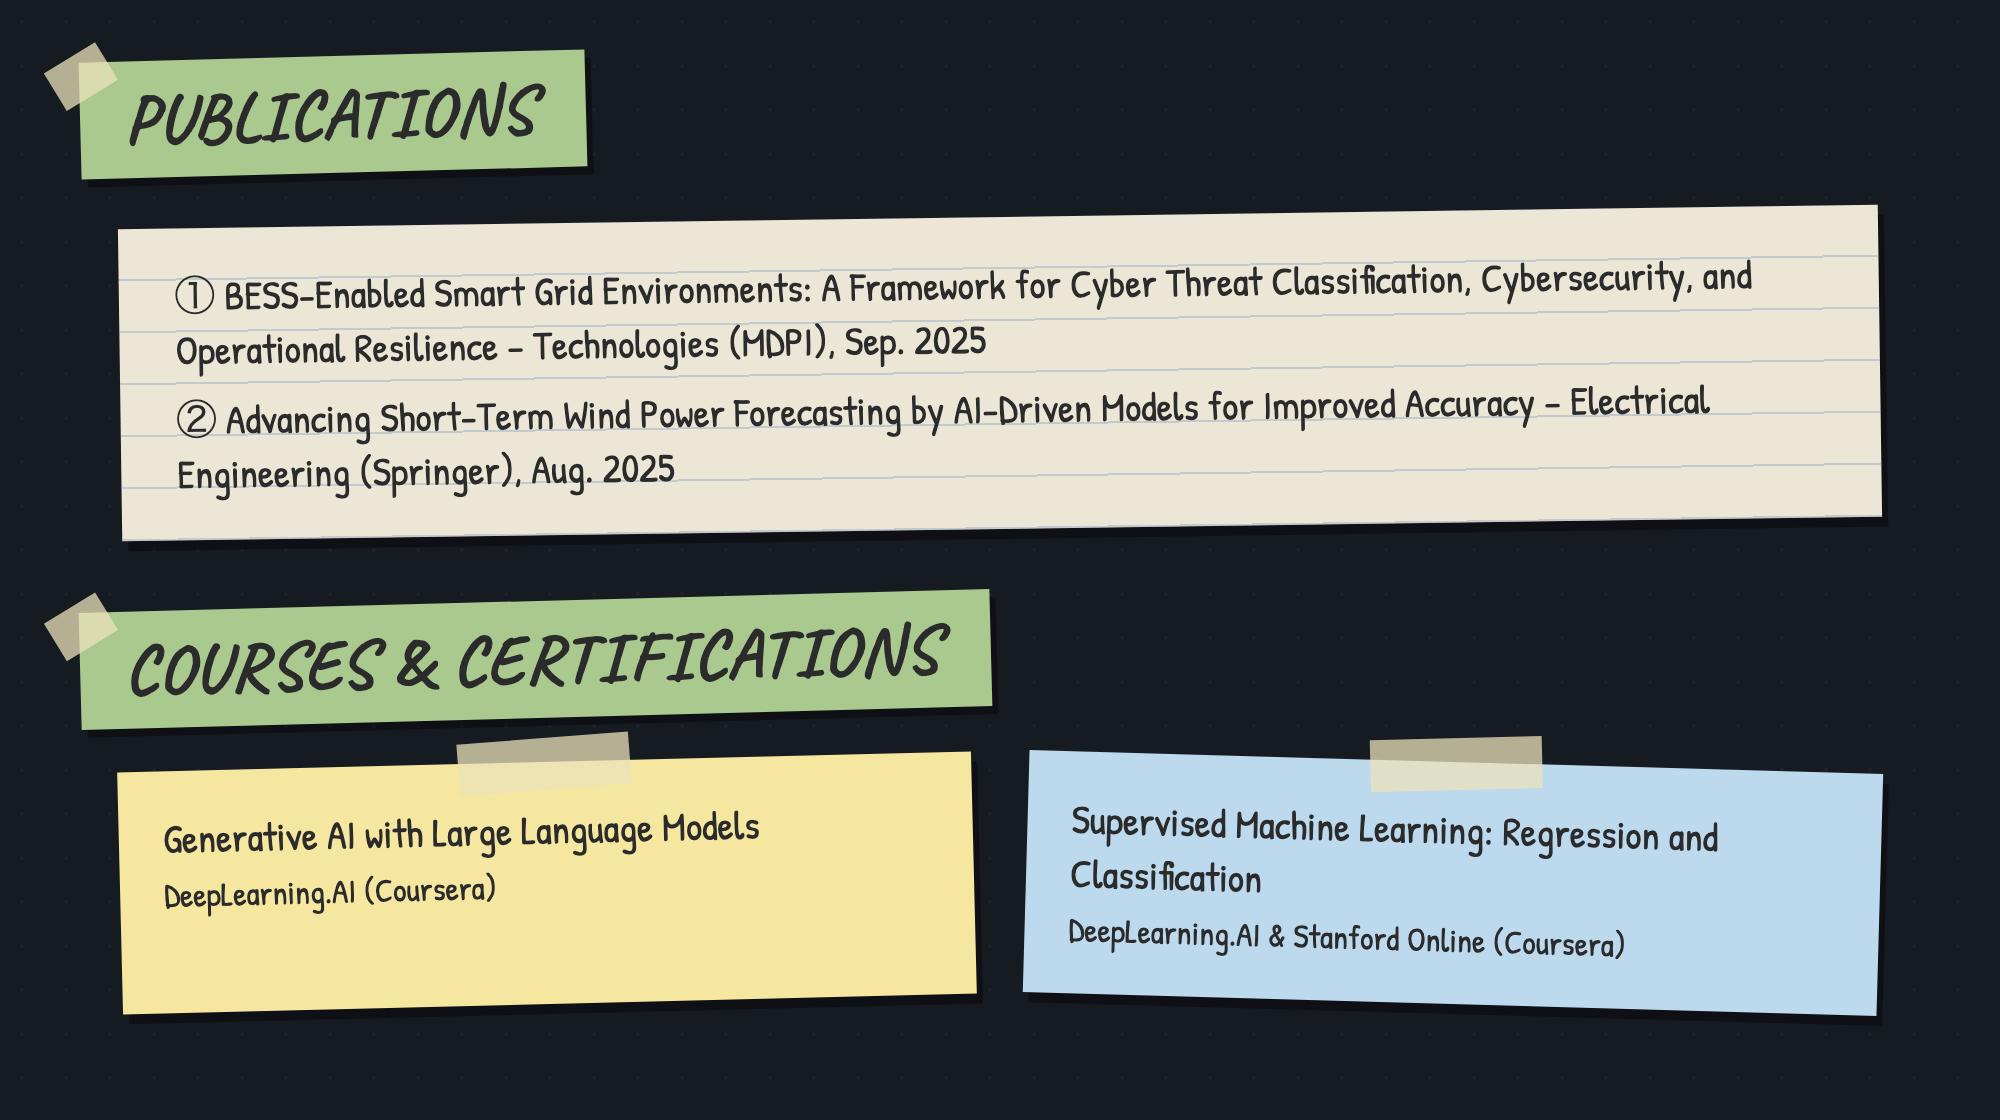
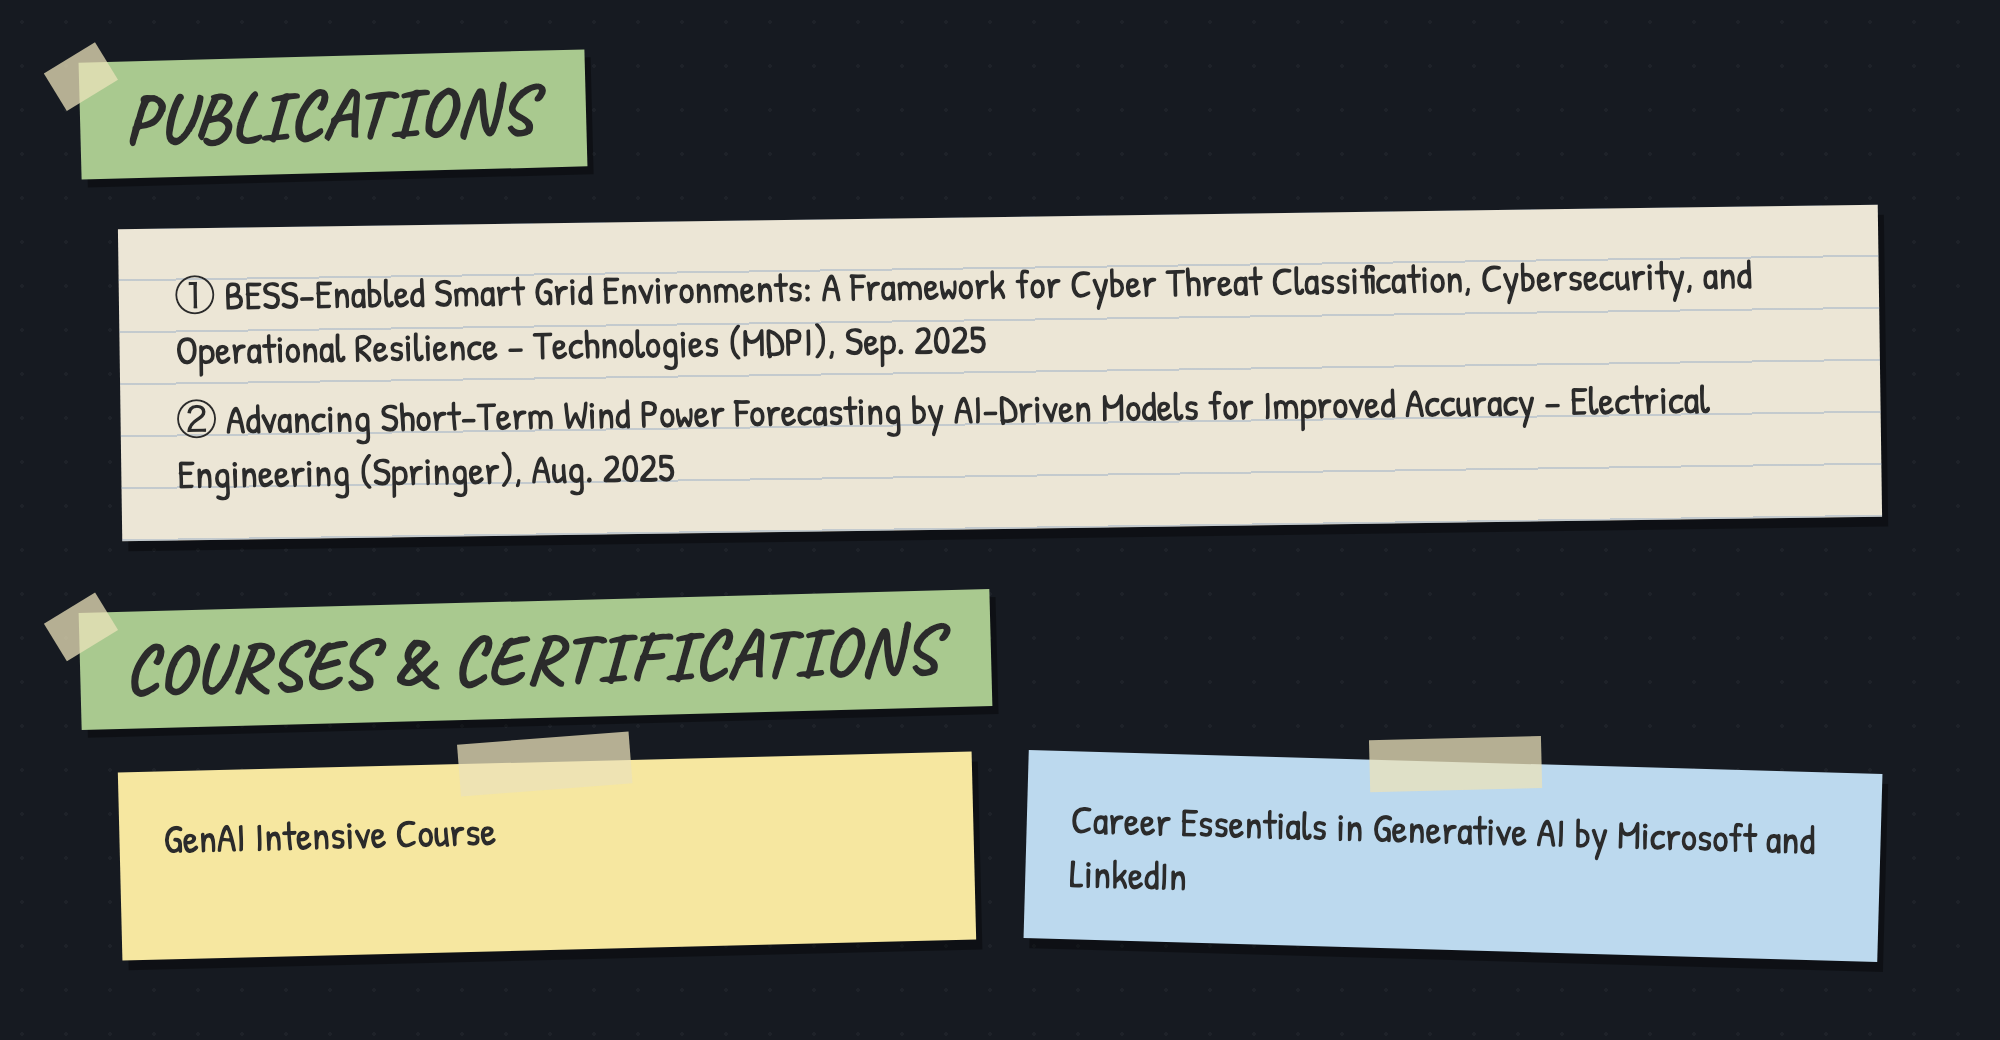
docs: simplify README, fix certifications, remove CGPA

Changed region(s): [[0.0, 0.0308, 0.961, 0.9231]]

diff --git a/README.md b/README.md
@@ -7,11 +7,7 @@
   </tr>
 </table>
 
-<img src="assets/about.png" alt="About me: end-to-end systems, foundations, AI tooling" width="100%">
-
 <img src="assets/ach.png" alt="Achievements" width="100%">
-
-<a href="https://www.namespace.world/credentials/certificates/6ia2No8wVrmd"><img src="https://img.shields.io/badge/Hackhazards_%2726-Credential-2b2f37?style=for-the-badge" alt="Hackhazards credential"></a>
 
 <img src="assets/proj.png" alt="Projects: Sambhaash AI, RepoGuardian AI, StockSense AI" width="100%">
 
@@ -24,11 +20,6 @@
 <img src="assets/tech.png" alt="Tech stack" width="100%">
 
 <img src="assets/pub.png" alt="Publications, courses and certifications" width="100%">
-
-<a href="https://doi.org/10.3390/technologies13090423"><img src="https://img.shields.io/badge/Technologies_(MDPI)-DOI-2b2f37?style=for-the-badge" alt="MDPI DOI"></a>
-<a href="https://doi.org/10.1007/s00202-025-03295-1"><img src="https://img.shields.io/badge/Electrical_Engineering_(Springer)-DOI-2b2f37?style=for-the-badge" alt="Springer DOI"></a>
-<a href="https://coursera.org/share/a2d67941bafd7f8d185e99a9785e33fd"><img src="https://img.shields.io/badge/Generative_AI_with_LLMs-Credential-2b2f37?style=for-the-badge" alt="GenAI credential"></a>
-<a href="https://www.coursera.org/account/accomplishments/verify/CYK6LUK2FMIZ"><img src="https://img.shields.io/badge/Supervised_ML-Credential-2b2f37?style=for-the-badge" alt="ML credential"></a>
 
 <img src="assets/connect.png" alt="Connect with me" width="100%">
 
